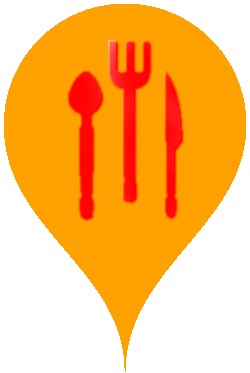
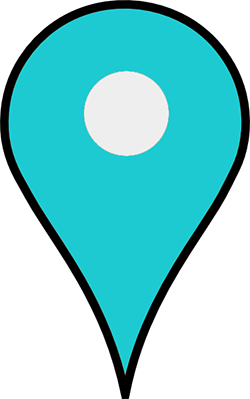
Ajout de review/ nouvelle charte graphique

diff --git a/src/app/restaurants-view/restaurant-reviews/restaurant-review.component.html b/src/app/restaurants-view/restaurant-reviews/restaurant-review.component.html
@@ -1,12 +1,13 @@
-
-  <div fxLayout="row" fxLayoutAlign="space-around center" class="review">
-  <div  fxLayout="column" fxLayoutAlign="start center" class="profile" fxFlex="20">
+<div fxLayout="row" fxLayoutAlign="space-around center" class="review">
+  <div fxLayout="column" fxLayoutAlign="start center" class="profile" fxFlex="20">
     <div class="profile-photo"><img src="{{review.profile_photo_url}}" width="64"></div>
     <h3 class="author-name">{{review.author_name}}</h3>
   </div>
   <div fxLayout="column" fxLayoutAlign="space-around center" class="review-contain" fxFlex="80">
     <div fxLayout="row" fxLayoutAlign="space-between center" class="rating-date">
-      <div *ngIf="review?.rating"><app-stars [rating]="review.rating"></app-stars></div>
+      <div *ngIf="review?.rating">
+        <app-stars [rating]="review.rating"></app-stars>
+      </div>
       <p>{{review.relative_time_description}}</p>
     </div>
     <p class="text-review">{{review.text}}</p>

diff --git a/src/app/restaurants-view/restaurant-add-review/restaurant-add-review.component.ts b/src/app/restaurants-view/restaurant-add-review/restaurant-add-review.component.ts
@@ -1,5 +1,5 @@
 import { Component, OnInit } from '@angular/core';
-import {FormControl, Validators} from '@angular/forms';
+import { FormGroup, FormControl, Validators } from '@angular/forms';
 
 @Component({
   selector: 'app-restaurant-add-review',
@@ -9,23 +9,13 @@ import {FormControl, Validators} from '@angular/forms';
 
 export class RestaurantAddReviewComponent implements OnInit {
   public selectFormControl: any = new FormControl('', Validators.required); // Validate that the field is non-empty
+  public myForm: FormGroup;
 
   constructor() { }
 
   ngOnInit() {
   }
 
-  /* onSubmit() {
-    const email = this.signinForm.get('email').value;
-    const password = this.signinForm.get('password').value;
-
-    this.authService.signInUser(email, password).then(
-      () => {
-        this.router.navigate(['/games']);
-      },
-      (error) => {
-        this.errorMessage = error;
-      }
-    );
-  } */
+  onSubmit() {
+  }
 }

diff --git a/src/styles.scss b/src/styles.scss
@@ -3,18 +3,20 @@
 @import url("https://fonts.googleapis.com/icon?family=Material+Icons");
 @import '~simplebar/dist/simplebar.css';
 
-$color1-title: #C30000;
-$color2-title:#F29800;
+$color1-title: #eeeeee;
+$color2-title:#00adb5;
+$color3-title: #222831;
 
 html,
 body {
   font-family: 'Open Sans', sans-serif;
+  color: $color3-title;
   margin: 0;
   padding: 0;
   position: absolute;
   width: 100%;
   height: 100%;
-  background-image: linear-gradient(to right, rgb(245, 213, 108)10%,white);
+  background-color: #dededf;
   background-repeat: no-repeat;
   background-position: 15% 15%;
 }
@@ -47,7 +49,7 @@ ul {
     li {
       min-height: 150px;
       padding: 2%;
-      background: rgba(228, 211, 181, 0.973);
+      background: $color1-title;
       border-radius: 10px;
       margin-bottom: 5px;
       text-align: center;

diff --git a/src/app/restaurants-view/restaurant-reviews/restaurant-review.component.scss b/src/app/restaurants-view/restaurant-reviews/restaurant-review.component.scss
@@ -1,6 +1,11 @@
+$color1-title: #eeeeee;
+$color2-title:#00adb5;
+$color3-title: #222831;
+
 .review {
   padding: 2px;
-  background: rgba(255, 255, 255, 0.877);
+  background: white;
+  border-radius: 10px;
 
   .profile {
 
@@ -25,21 +30,19 @@
     }
 
     .text-review {
-      background-color: rgba(240, 236, 236, 0.63);
+      background-color: $color1-title;
       padding: 1%;
       border-radius: 15px;
       font-size: 0.9em;
     }
   }
 }
-
-$color1-title: #C30000;
-$color2-title:#F29800;
-
-.review::before {
+/*
+.review::after {
   content: "";
   height: 2px;
-  background: linear-gradient(to right,$color2-title 0%,$color1-title 50%, $color2-title 100%);
+  background: linear-gradient(to right, $color1-title 0%, $color2-title 50%, $color1-title 100%);
   position: absolute;
-  width: 130px;
+  width: 100%;
 }
+ */

diff --git a/src/app/restaurants-view/restaurant/restaurant.component.html b/src/app/restaurants-view/restaurant/restaurant.component.html
@@ -9,11 +9,11 @@
   <div fxLayout="row" fxLayoutAlign="space-around center">
     <div><img src={{restaurant.photo}} width="300" height="170"></div>
     <div fxLayout="row" fxLayoutAlign="center center">
-      <div><img src="./assets/images/map-marker.png" width="18" height="22"></div>
+      <div><img src="./assets/images/map-marker.png" width="16" height="24"></div>
       <h3>{{restaurant.vinanityAdress}}</h3>
     </div>
   </div>
-  <div fxLayout="row" fxLayoutAlign="space-evenly center">
+  <div fxLayout="row" fxLayoutAlign="space-evenly center" class="restaurant-button">
     <button mat-flat-button (click)="showReviews ? showReviews = false: showReviews = true; showAddReview = false;
     this.restaurantsListComponent.getRestaurantDetails(this.restaurant.id)"
       id="showReviews{{restaurant.id}}">

diff --git a/src/app/restaurants-view/restaurants-list/restaurants-list.component.scss b/src/app/restaurants-view/restaurants-list/restaurants-list.component.scss
@@ -1,18 +1,19 @@
-$color1-title: #C30000;
-$color2-title: #F29800;
+$color1-title: #eeeeee;
+$color2-title:#00adb5;
 
 mat-icon {
   color: $color2-title;
 }
 
 #star-selector {
-  background:  rgba(242, 153, 0, 0.952);
+  background: $color2-title;
   text-align: center;
-  border: 2px solid #222222;
-  -webkit-border-radius: 3px;
-  -moz-border-radius: 3px;
-  border-radius: 10px;
+  border: 2px solid $color1-title;
   padding: 2%;
+
+  h3 {
+    padding-top: 3px;
+  }
 
   mat-icon {
     color: $color1-title;

diff --git a/src/app/restaurants-view/restaurant-add-review/restaurant-add-review.component.html b/src/app/restaurants-view/restaurant-add-review/restaurant-add-review.component.html
@@ -1,4 +1,5 @@
 <div fxLayout="column" fxLayoutAlign="space-around center">
+  <form (ngSubmit)="onSubmit()" [formGroup]="myForm">
   <mat-form-field class="author-name">
     <input matInput placeholder="Identifiez-vous!">
   </mat-form-field>
@@ -34,4 +35,6 @@
     </mat-error>
     <mat-hint>Notez ce restaurant ici!</mat-hint>
   </mat-form-field>
+  <button type="submit" mat-raised-button>Submit</button>
+</form>
 </div>

diff --git a/src/app/header/header.component.scss b/src/app/header/header.component.scss
@@ -1,5 +1,5 @@
-$color1-title: #C30000;
-$color2-title: #F29800;
+$color1-title: #eeeeee;
+$color2-title:#00adb5;
 
 mat-toolbar{
   background: rgb(34, 34, 34);

diff --git a/src/app/restaurants-view/restaurant-add-review/restaurant-add-review.component.scss b/src/app/restaurants-view/restaurant-add-review/restaurant-add-review.component.scss
@@ -1,5 +1,5 @@
-$color1-title: #C30000;
-$color2-title: #F29800;
+$color1-title: #eeeeee;
+$color2-title:#00adb5;
 
 mat-icon {
   color: $color2-title;

diff --git a/src/app/restaurants-view/restaurant/restaurant.component.scss b/src/app/restaurants-view/restaurant/restaurant.component.scss
@@ -1,4 +1,7 @@
-
-.restaurant-rating{
+.restaurant-rating {
   padding-left: 5px;
+}
+
+.restaurant-button {
+  margin-top: 10px;
 }

diff --git a/src/app/app.component.scss b/src/app/app.component.scss
@@ -3,3 +3,6 @@
   display: flex;
   overflow: hidden;
 }
+app-header{
+  box-shadow: 0 1px 3px
+}
